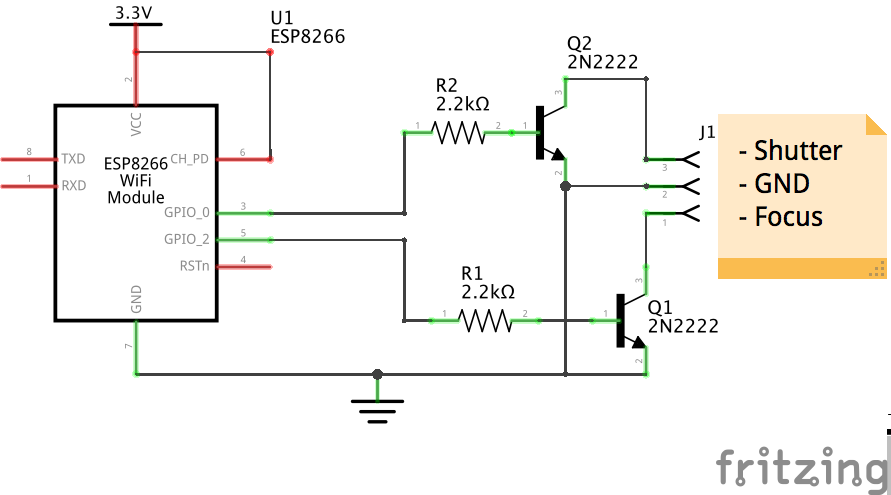
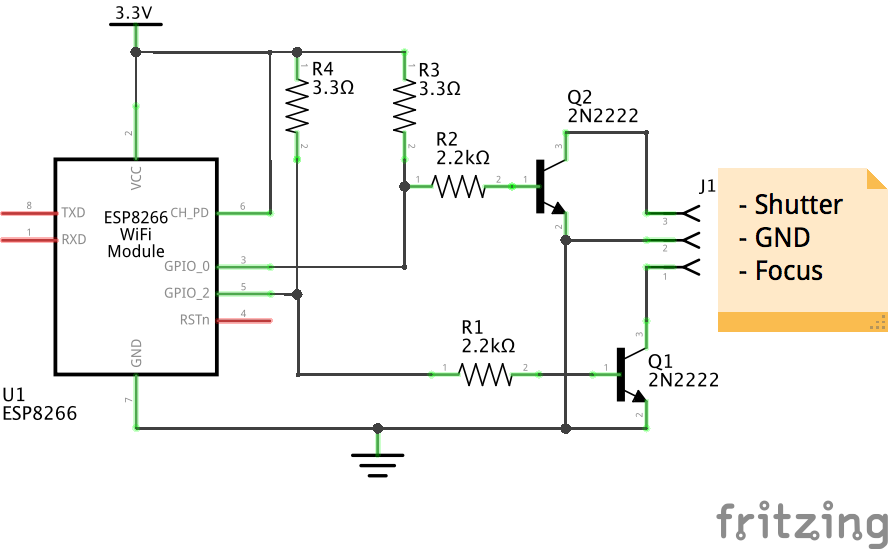
Add pull-up resistors

diff --git a/README.md b/README.md
@@ -22,6 +22,7 @@ regulator) in order to make the module fully autonomous.
 
 - 1 x ESP8266-01 (_U1_)
 - 2 x 2.2k ohms (_R1_ and _R2_)
+- 2 x 3.3k ohms (_R3_ and _R4_)
 - 2 x 2N2222 (_Q1_ and _Q2_)
 - 2.5mm male stereo plug (connected to _J1_, for Canon cameras)
 - 3.3V power supply
